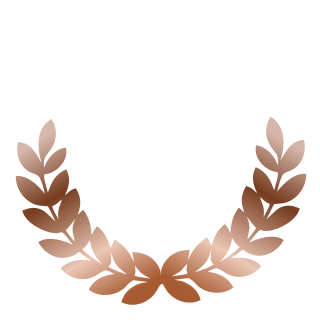
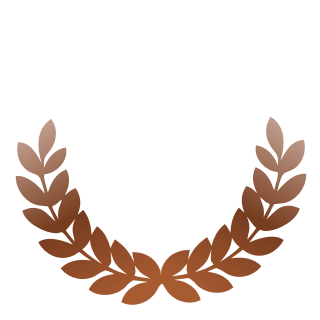
Rewarding screen: beautify

diff --git a/www/modules/main/_common.less b/www/modules/main/_common.less
@@ -70,6 +70,10 @@ body {
     }
 }
 
+.badge.no-empty:empty {
+    display: inline-block;
+}
+
 .generate-theme(@name; @color1; @color2) {
     .bg-@{name} {
         background-color: @color1;
@@ -116,10 +120,24 @@ body {
 .generate-theme(blue; @blue; #FFF);
 .generate-theme(white; #FFF; @gray-dark);
 
+.bg-wood {
+    background-image: url("images/wood.jpg");
+    background-repeat: no-repeat;
+    background-size: cover;
+}
+
+.border-brown {
+    border: #79482E;
+}
+
 .bg-contain {
     background-repeat: no-repeat;
     background-position: center;
     background-size: contain;
+}
+
+.full-w {
+    width: 100%;
 }
 
 .user-level-1-bg {
@@ -139,15 +157,29 @@ body {
     &:extend(.bg-contain);
     background-image: url("images/score/palm_bronze.png");
 }
+.user-palm-bronze-bg-shadow {
+    &:extend(.bg-contain);
+    background-image: url("images/score/palm_bronze_shadow.png");
+}
 
 .user-palm-silver-bg {
     &:extend(.bg-contain);
     background-image: url("images/score/palm_silver.png");
 }
 
+.user-palm-silver-bg-shadow {
+    &:extend(.bg-contain);
+    background-image: url("images/score/palm_silver_shadow.png");
+}
+
 .user-palm-gold-bg {
     &:extend(.bg-contain);
     background-image: url("images/score/palm_gold.png");
+}
+
+.user-palm-gold-bg-shadow {
+    &:extend(.bg-contain);
+    background-image: url("images/score/palm_gold_shadow.png");
 }
 
 .user-sky {
@@ -210,12 +242,20 @@ body {
             .modal-content {
                 height: 100%;
                 .modal-body {
-                    height: 80%;
+                    height: 88%;
                     .bootstrap-dialog-body {
                         position: absolute;
                         width: 100%;
+                        height: 100%;
+                        top: 0;
                         left: 0;
-                        bottom: 0;
+                        .bootstrap-dialog-message {
+                            position: absolute;
+                            width: 100%;
+                            top: 0;
+                            left: 0;
+                            bottom: 0;
+                        }
                         p {
                             width: 70%;
                             margin: auto;
@@ -233,6 +273,14 @@ body {
                     }
                 }
             }
+        }
+    }
+    &.with-bg-forest {
+        .modal-content {
+            background-image: url("images/forest.jpg");
+            background-repeat: no-repeat;
+            background-position: center;
+            background-size: cover;
         }
     }
     &.has-fireworks {
@@ -274,37 +322,76 @@ body {
     }
     &.user-score {
         .bootstrap-dialog-body {
-            &:before {
-                content: "";
-                position: absolute;
-                width: 150px;
-                height: 150px;
-                bottom: 130%;
-                left: 50%;
-                margin-left: -75px;
-                border-radius: 50%;
-                overflow: hidden;
-                /*background-color: rgba(255,255,255,0.2);
-                .box-shadow(0px 2px 5px 0px rgba(0, 0, 0, 0.3););*/
+            .bootstrap-dialog-message {
+                top: 33% !important;
+            }
+            .badge {
+                font-size: 70px;
+                line-height: 2em;
+                display: inline-block;
+                text-shadow: 0 1px 3px rgba(0,0,0,.5); 
+                .box-shadow(0 5px 5px 0 rgba(0,0,0,.5));
+                &:before {
+                    content: "";
+                    position: absolute;
+                    width: 100%;
+                    height: 100%;
+                    top: 0%;
+                    left: 0%;
+                    border-radius: 50%;
+                    overflow: hidden;
+                    z-index: 1;
+                }
+                .text-xs {
+                    font-size: .23em;
+                    text-shadow: 0 1px 3px rgba(0,0,0,.8); 
+                }
+                .text-bottom {
+                    position: absolute;
+                    width: 100%;
+                    bottom: 2rem;
+                    line-height: normal;
+                    text-transform: lowercase;
+                    z-index: 1;
+                }
+                .butterfly {
+                    position: absolute;
+                    top: -.3em;
+                    right: .1em;
+                    width: .8em;
+                    height: .8em;
+                    background: url("images/logos/butterfly.png") no-repeat center;
+                    background-size: contain;
+                    z-index: 1;
+                }
             }
         }
-        &.user-level-1 .bootstrap-dialog-body:before {
+        &.user-level-1 .bootstrap-dialog-body .badge:before {
             &:extend(.user-level-1-bg);
         }
-        &.user-level-2 .bootstrap-dialog-body:before {
+        &.user-level-2 .bootstrap-dialog-body .badge:before {
             &:extend(.user-level-2-bg);
         }
-        &.user-level-3 .bootstrap-dialog-body:before {
+        &.user-level-3 .bootstrap-dialog-body .badge:before {
             &:extend(.user-level-3-bg);
         }
-        &.user-palm-bronze .bootstrap-dialog-body:before {
-            &:extend(.user-palm-bronze-bg);
+        &.user-palm-bronze .bootstrap-dialog-body .badge:before {
+            &:extend(.user-palm-bronze-bg-shadow);
         }
-        &.user-palm-silver .bootstrap-dialog-body:before {
-            &:extend(.user-palm-silver-bg);
+        &.user-palm-silver .bootstrap-dialog-body .badge:before {
+            &:extend(.user-palm-silver-bg-shadow);
         }
-        &.user-palm-gold .bootstrap-dialog-body:before {
-            &:extend(.user-palm-gold-bg);
+        &.user-palm-gold .bootstrap-dialog-body .badge:before {
+            &:extend(.user-palm-gold-bg-shadow);
+        }
+        &[class^="user-palm-"],
+        &[class*=" user-palm-"] {
+            .bootstrap-dialog-body .badge:before {
+                width: 90%;
+                height: 90%;
+                top: 5%;
+                left: 5%;
+            }
         }
     }
 }

diff --git a/www/modules/main/main.view.js b/www/modules/main/main.view.js
@@ -40,6 +40,24 @@ var Layout = Marionette.LayoutView.extend({
     this.rgSidenav.show(sidenav.getInstance());
     this.rgFooter.show(footer.getInstance());
 
+    /*self.addDialog({
+      cssClass: 'theme-primary with-bg-forest user-score user-palm-bronze',
+      badgeClassNames: 'badge-circle bg-wood border-brown text-white',
+      badge: '5<div class="text-xs text-bottom">'+i18n.t('mission.label', {count: 1})+'</div>',
+      title: i18n.t('dialogs.palm.title'),
+      message: i18n.t('dialogs.palm.message.bronze'),
+      button: i18n.t('dialogs.palm.button')
+    });*/
+
+    /*self.addDialog({
+      cssClass: 'theme-primary with-bg-forest user-score user-level-1',
+      badgeClassNames: 'badge-circle bg-wood border-brown text-white',
+      //badge: '5<div class="text-xs text-bottom">missions</div>',
+      title: i18n.t('dialogs.level.title'),
+      message: i18n.t('dialogs.level.message.level_1'),
+      button: i18n.t('dialogs.level.button')
+    });*/
+
     // require('../profile/login.view').openDialog({
     //     message: 'Vous devez être connecté pour transmettre votre observation.'
     // });
@@ -76,7 +94,8 @@ var Layout = Marionette.LayoutView.extend({
       if (!level)
           return false;
       self.addDialog({
-        cssClass: 'theme-orange-light has-fireworks user-score user-level-' + level,
+        cssClass: 'theme-primary with-bg-forest user-score user-level-' + level,
+        badgeClassNames: 'badge-circle bg-wood border-brown text-white',
         title: i18n.t('dialogs.level.title'),
         message: i18n.t('dialogs.level.message.level_' + level),
         button: i18n.t('dialogs.level.button')
@@ -86,8 +105,11 @@ var Layout = Marionette.LayoutView.extend({
       if (!palm)
           return false;
       var palmName = user.get('palmName');
+      var nbCompleted = user.get('completedMissions').length;
       self.addDialog({
-        cssClass: 'theme-orange-light has-fireworks user-score user-palm-' + palmName,
+        cssClass: 'theme-primary with-bg-forest user-score user-palm-' + palmName,
+        badgeClassNames: 'badge-circle bg-wood border-brown text-white',
+        badge: nbCompleted+'<div class="text-xs text-bottom">'+i18n.t('mission.label', {count: nbCompleted})+'</div>',
         title: i18n.t('dialogs.palm.title'),
         message: i18n.t('dialogs.palm.message.' + palmName),
         button: i18n.t('dialogs.palm.button')
@@ -97,8 +119,8 @@ var Layout = Marionette.LayoutView.extend({
 
   addDialog: function(data) {
     var self = this;
-
-    var message = '<h3>' + data.title + '</h3><p>' + data.message + '</p>';
+    var message = (!data.badge && !data.badgeClassNames) ? '' : '<div class="badge '+(data.badgeClassNames||'')+'">'+(data.badge|| '')+'<div class="butterfly"></div></div>';
+    message += '<div class="floating floating-bottom full-w"><h3>' + data.title + '</h3><p>' + data.message + '</p></div>';
 
     var dialog = new Dialog({
       message: message,

diff --git a/www/modules/observation/observation.view.js b/www/modules/observation/observation.view.js
@@ -409,8 +409,11 @@ var Layout = Marionette.LayoutView.extend({
         self.observationModel.set({
           'shared': 1
         }).save();
+        var nbCompleted = user.get('completedMissions').length;
         Main.getInstance().addDialog({
-          cssClass: 'theme-orange-light has-fireworks title-has-palm',
+          cssClass: 'theme-primary with-bg-forest user-score',
+          badgeClassNames: 'badge-circle bg-wood border-brown text-white',
+          badge: nbCompleted+'<div class="text-xs text-bottom">'+i18n.t('mission.label', {count: nbCompleted})+'</div>',
           title: i18n.t('dialogs.obsShared.title'),
           message: i18n.t('dialogs.obsShared.message'),
           button: i18n.t('dialogs.obsShared.button')
@@ -425,8 +428,11 @@ var Layout = Marionette.LayoutView.extend({
       self.observationModel.set({
         'shared': 1
       }).save();
+      var nbCompleted = user.get('completedMissions').length;
       Main.getInstance().addDialog({
-        cssClass: 'theme-orange-light has-fireworks title-has-palm',
+        cssClass: 'theme-primary with-bg-forest user-score',
+        badgeClassNames: 'badge-circle bg-wood border-brown text-white',
+        badge: nbCompleted+'<div class="text-xs text-bottom">'+i18n.t('mission.label', {count: nbCompleted})+'</div>',
         title: i18n.t('dialogs.obsShared.title'),
         message: i18n.t('dialogs.obsShared.message'),
         button: i18n.t('dialogs.obsShared.button')
